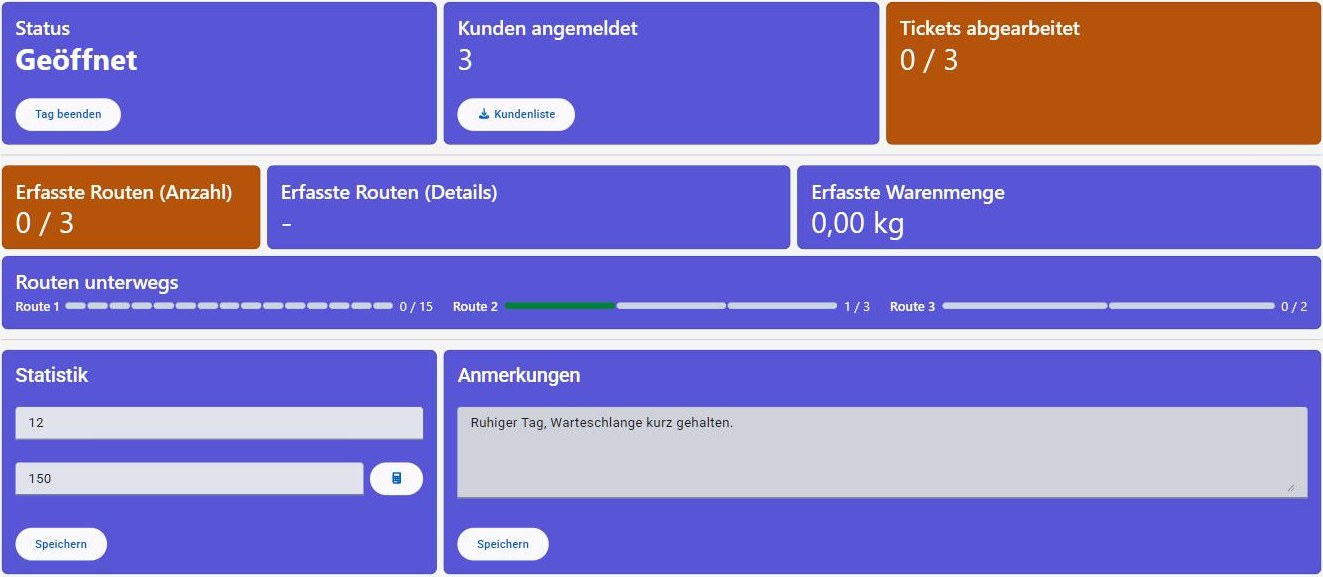
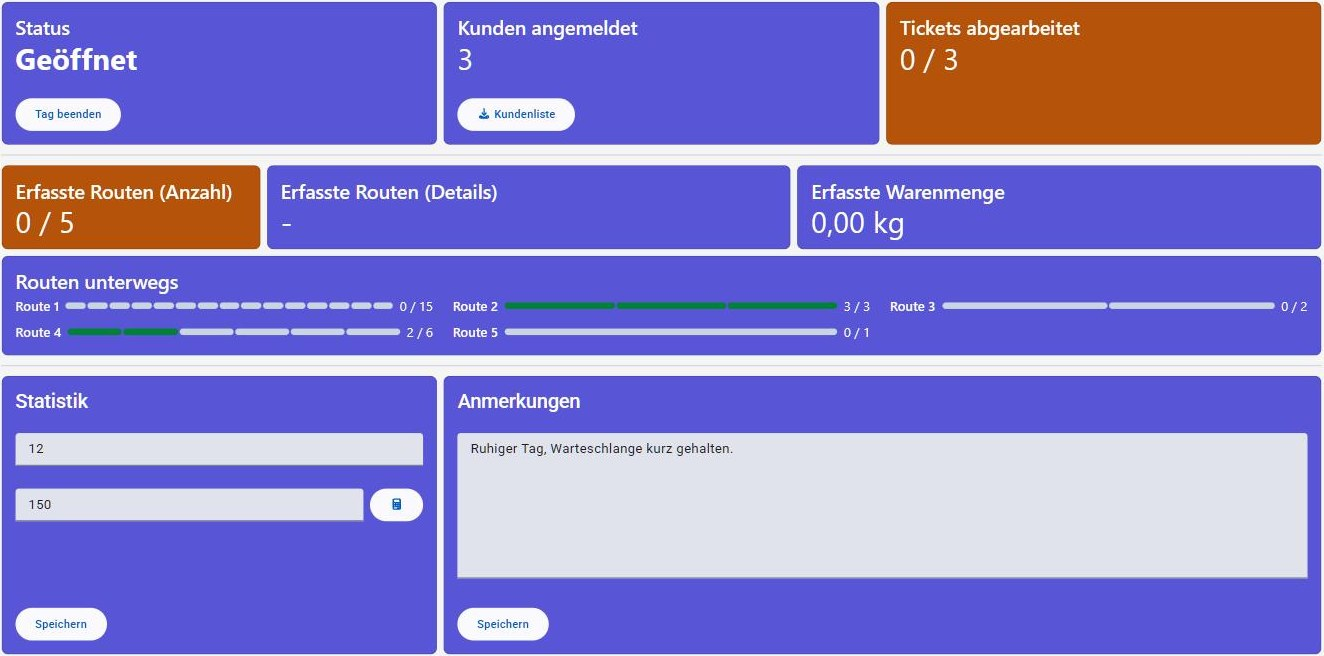
feat(dashboard): fill the screen exactly and vary the route testdata
The dashboard's last row now takes whatever the rows above it left over, so the
screen ends at the fold whether or not "Routen unterwegs" is there, and the
notes textarea uses that height instead of leaving it as empty card. Two
Material defaults had to be overridden by name for this: `.mat-drawer-content`
and `.mat-mdc-card-content` both set `display: block` from a single class that
comes after the utilities, so the shell's existing `flex flex-col` on
`mat-sidenav-content` had silently been a no-op and `<main>`'s `grow` had
nothing to grow inside.

Below `lg:` the panels are stacked in one column and there are more of them than
a phone screen holds, so they keep their natural height and the page scrolls.

The testdata gains routes 4 (six stops, one of them a break) and 5 (a single
stop, which never announces "beim letzten Stopp"), and the thirteen "Hofer N"
shops of route 1 - one address, one phone number, one contact between them -
become a varied set across several districts, with mixed units and a mix of
present and absent phone, contact and note. Route 1's stops are no longer a
rigid fifteen minutes apart.

The user guide's Routen-Navi screenshot is now the phone view, which is how the
screen is actually used.

diff --git a/frontend/src/main/webapp/src/app/common/views/default-layout/default-layout.component.html b/frontend/src/main/webapp/src/app/common/views/default-layout/default-layout.component.html
@@ -130,13 +130,23 @@
    </div>
   </mat-sidenav>
 
-  <mat-sidenav-content class="flex flex-col min-h-screen">
+  <!--
+    `!flex`, not `flex`: Material's own `.mat-drawer-content { display: block }` is a single class
+    like the utility and comes later in the cascade, so a plain `flex` here is silently a no-op and
+    the `grow` on `<main>` below has nothing to grow inside.
+  -->
+  <mat-sidenav-content class="!flex flex-col min-h-screen">
     <tafel-default-header class="block sticky top-0 z-10 bg-white shadow-sm" (toggleSidebar)="sidenav.toggle()"/>
     <!--
       `tabindex="-1"` makes the landmark itself a focus target for the skip link - without it the
       focus stays where it was and the next Tab would continue in the navigation.
     -->
-    <main #mainContent id="hauptinhalt" tabindex="-1" class="grow px-6 pt-6 pb-6 focus:outline-none">
+    <!--
+      A column flex container, so a screen that wants to fill the height it was given can say so
+      with `flex-1` on itself (the dashboard does, to end exactly at the fold). Nothing grows
+      unless it asks to, so every other screen keeps its natural height.
+    -->
+    <main #mainContent id="hauptinhalt" tabindex="-1" class="flex grow flex-col px-6 pt-6 pb-6 focus:outline-none">
       <!--
         The page's one `h1`, from the same route title the document title uses. The screens
         themselves show no page heading - the sidebar is what names the open page - so without this

diff --git a/frontend/src/main/webapp/src/app/modules/dashboard/dashboard.component.html b/frontend/src/main/webapp/src/app/modules/dashboard/dashboard.component.html
@@ -31,7 +31,11 @@
   </div>
 }
 <mat-divider class="!my-3"></mat-divider>
-<div class="grid grid-cols-1 lg:grid-cols-3 gap-y-2 lg:gap-x-2">
+<!-- The last row takes whatever the rows above it left over, so the screen is exactly full whether
+     or not "Routen unterwegs" is there. Only from lg: up: below that breakpoint the panels are
+     stacked in one column and there is more of them than a phone screen holds, so squeezing them
+     into it would leave every field unusably short. -->
+<div class="grid grid-cols-1 gap-y-2 lg:min-h-0 lg:flex-1 lg:grid-cols-3 lg:gap-x-2">
   <tafel-distribution-statistics-input *tafelIfPermission="'LOGISTICS'" [sheltersData]="sheltersData()"
                                        [employeeCountInput]="data()?.statistics?.employeeCount"
                                        [initialSelectedShelterNames]="data()?.statistics?.selectedShelterNames ?? []">

diff --git a/frontend/src/main/webapp/src/app/modules/dashboard/components/distribution-notes-input/distribution-notes-input.component.scss b/frontend/src/main/webapp/src/app/modules/dashboard/components/distribution-notes-input/distribution-notes-input.component.scss
@@ -1,0 +1,18 @@
+// The card is stretched to the bottom of the screen by the dashboard's last row, and the notes are
+// the one thing here worth having more of - so the textarea takes that height rather than leaving
+// it as empty card. Material builds the field out of three nested wrappers between the form field
+// and the textarea, each of them content-sized, so every one of them has to be told to fill or the
+// height stops at the outermost.
+:host ::ng-deep {
+  .mat-mdc-text-field-wrapper,
+  .mat-mdc-form-field-flex,
+  .mat-mdc-form-field-infix {
+    height: 100%;
+  }
+
+  textarea.mat-mdc-input-element {
+    height: 100%;
+    // the drag handle would let the textarea grow past the card it is being sized to fit
+    resize: none;
+  }
+}

diff --git a/frontend/src/main/webapp/src/app/modules/dashboard/components/distribution-notes-input/distribution-notes-input.component.html b/frontend/src/main/webapp/src/app/modules/dashboard/components/distribution-notes-input/distribution-notes-input.component.html
@@ -4,8 +4,10 @@
       <h2 class="tafel-h4">Anmerkungen</h2>
     </mat-card-title>
   </mat-card-header>
-  <mat-card-content>
-    <mat-form-field class="w-full" appearance="fill">
+  <!-- `!flex`: Material's own `.mat-mdc-card-content { display: block }` is a single class like
+       the utility and comes later in the cascade, so a plain `flex` here does nothing. -->
+  <mat-card-content class="!flex flex-col">
+    <mat-form-field class="w-full lg:flex-1" appearance="fill">
       <!--
         A placeholder was standing in for the label, and a placeholder is gone the moment the field
         holds anything - which is exactly when a screen-reader user asks what field they are in.

diff --git a/frontend/src/main/webapp/src/app/modules/dashboard/dashboard.component.ts b/frontend/src/main/webapp/src/app/modules/dashboard/dashboard.component.ts
@@ -23,6 +23,10 @@ import {MatDivider} from '@angular/material/list';
 @Component({
   selector: 'tafel-dashboard',
   templateUrl: 'dashboard.component.html',
+  // A column filling the height `<main>` was given (it is a flex column for this), so the last row
+  // can take whatever the rows above it left over and the screen ends exactly at the fold - with
+  // or without "Routen unterwegs". See the template.
+  host: {class: 'flex min-h-0 flex-1 flex-col'},
   imports: [
     DistributionStateComponent,
     RegisteredCustomersComponent,

diff --git a/frontend/src/main/webapp/cypress/e2e/food-collection-recording.cy.ts b/frontend/src/main/webapp/cypress/e2e/food-collection-recording.cy.ts
@@ -51,7 +51,7 @@ describe('Food Collection Recording', () => {
       // Route 2 now has both base data and food items entered, so the dashboard panel should
       // count it as fully recorded and list it by name - other routes (untouched) must not count.
       cy.visit('/');
-      cy.byTestId('recorded-food-collections-count').should('have.text', '1 / 3');
+      cy.byTestId('recorded-food-collections-count').should('have.text', '1 / 5');
       cy.byTestId('recorded-route-names').should('have.text', 'Route 2');
     });
   });

diff --git a/frontend/src/main/webapp/src/app/modules/dashboard/components/distribution-notes-input/distribution-notes-input.component.ts b/frontend/src/main/webapp/src/app/modules/dashboard/components/distribution-notes-input/distribution-notes-input.component.ts
@@ -12,6 +12,7 @@ import {TafelToastrService} from '../../../../common/components/tafel-toastr/taf
 @Component({
   selector: 'tafel-distribution-notes-input',
   templateUrl: 'distribution-notes-input.component.html',
+  styleUrls: ['distribution-notes-input.component.scss'],
   imports: [
     MatCard,
     MatCardHeader,

diff --git a/docs/userguide/logistik.md b/docs/userguide/logistik.md
@@ -14,7 +14,9 @@ Bedient wird die Seite mit **zwei Knöpfen**, und genau diese beiden halten auch
 
 Je Stopp werden angezeigt: Uhrzeit, Filialnummer und Name der Filiale, Adresse, Telefonnummer (per Klick direkt wählbar), Ansprechperson sowie eine allfällige Notiz zur Filiale. Stopps ohne Filiale — etwa eine Pause — bleiben erhalten und werden mit ihrer Beschreibung angezeigt. Der erste noch offene Stopp ist mit **Nächster offener Stopp** gekennzeichnet, ein bereits abgehakter mit **Erledigt**. Eine Filiale, die inzwischen auf inaktiv gesetzt wurde, bleibt in der Route und wird mit **Filiale inaktiv** gekennzeichnet. Das **i-Symbol** neben der Überschrift blendet eine Kurzanleitung ein.
 
-![Routen-Navi](images/logistik-routen-navi.jpg)
+Die Abbildung zeigt die Seite so, wie sie unterwegs tatsächlich verwendet wird: am Handy (siehe auch [Darstellung auf schmalen Bildschirmen](README.md#darstellung-auf-schmalen-bildschirmen)). Am Computer ist es dieselbe Seite, nur breiter.
+
+![Routen-Navi am Handy](images/logistik-routen-navi.jpg)
 
 Hat die Route bei ihrer letzten Fahrt Retourware mitgebracht, steht oberhalb des Stopps ein Hinweis, wie viele Kisten heute zurückgehen und von welchem Ausgabetag sie stammen. Beim jeweiligen Stopp ist dann unter **Retourware abgeben** aufgelistet, was bei dieser Filiale abzugeben ist (z. B. "4 × Graue Kisten"). Kisten einer Filiale, die auf der Route inzwischen nicht mehr angefahren wird, werden im Hinweis oben gesondert unter "Ohne Stopp auf dieser Route" angeführt, damit sie nicht übersehen werden. Grundlage ist die zuletzt erfasste Retourware der Route aus der [Waren-Eingabe](#warenerfassung); der laufende Ausgabetag wird dabei nicht herangezogen.
 
